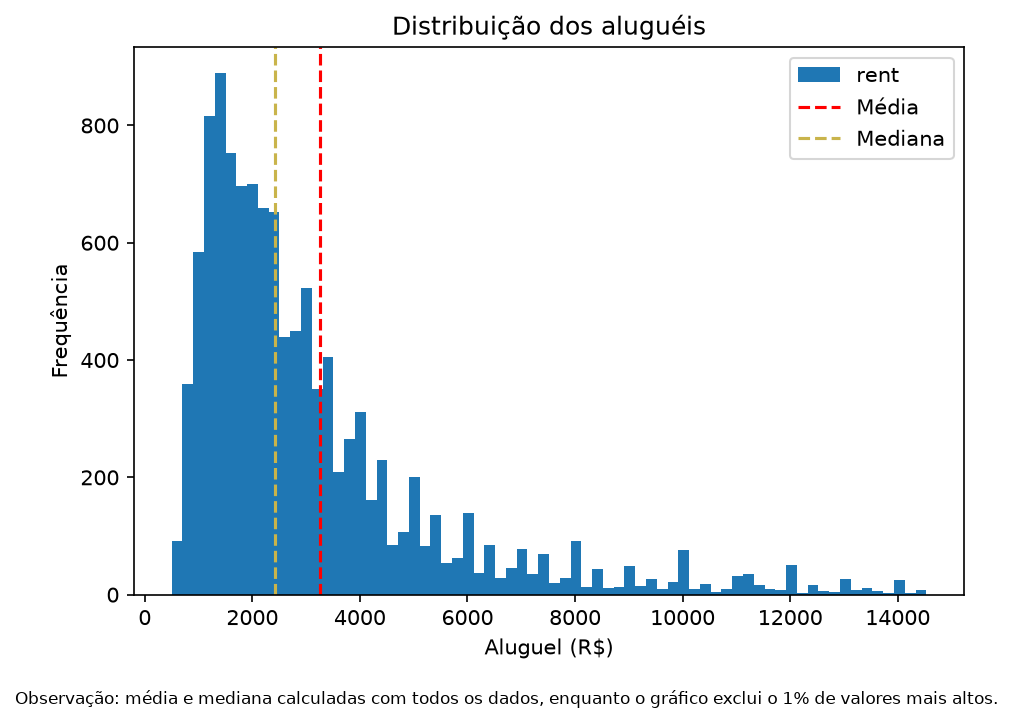
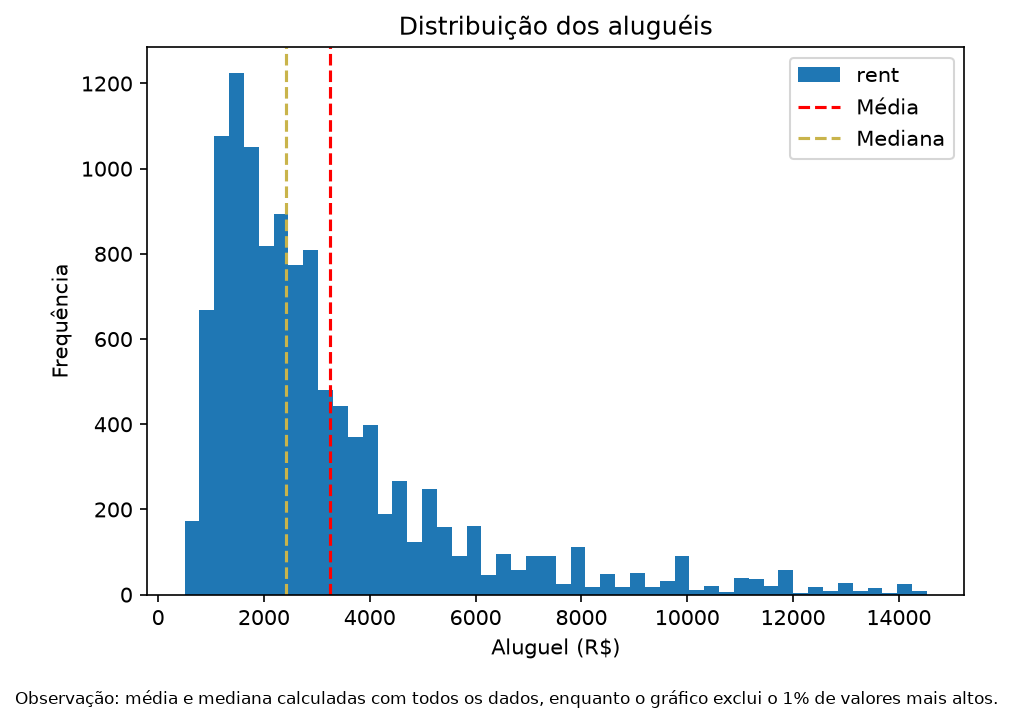
Last commit

diff --git a/main.py b/main.py
@@ -69,14 +69,14 @@ print_section("Top 3 localidades com maior aluguel médio", top_3_highest_rent)
 print_section("Top 3 localidades com menor aluguel médio", top_3_lowest_rent)
 
 # Obter os imóveis com o maior valor de aluguel por metro quadrado de área:
-rent_per_sm_df = (
+df = (
     df.assign(rent_per_sm=lambda d: d['rent'] / d['area'])
       .sort_values(by='rent_per_sm', ascending=False)
       .reset_index()
       .drop(columns=['index', 'total'])
 )
 
-top_10_rent_per_sm = rent_per_sm_df.head(10).rename(columns={
+top_10_rent_per_sm = df.head(10).rename(columns={
     'address': 'Endereço',
     'district': 'Localidade',
     'area': 'Área (m²)',
@@ -101,7 +101,7 @@ if ask_yes_no("Você deseja exibir o histograma: \"Distribuição dos aluguéis\
 plt.close(plot1)
 
 # GRÁFICO 2: Mediana do aluguel por metros quadrados x Número de quartos
-plot2 = plot_rent_per_sm_median_per_bedrooms(rent_per_sm_df)
+plot2 = plot_rent_per_sm_median_per_bedrooms(df)
 plt.savefig('./images/mediana_aluguel_por_m2_por_Nquartos.png', dpi=150, bbox_inches='tight')
 
 if ask_yes_no("Você deseja exibir o gráfico de barras: \"Mediana do aluguel por m² número de quartos\"? (S/n) \n--> "):
@@ -109,7 +109,7 @@ if ask_yes_no("Você deseja exibir o gráfico de barras: \"Mediana do aluguel po
 plt.close(plot2)
 
 # GRÁFICO 3: Mediana do aluguel por metros quadrados x Número de vagas de estacionamento
-plot3 = plot_rent_per_sm_median_per_parking_spots(rent_per_sm_df)
+plot3 = plot_rent_per_sm_median_per_parking_spots(df)
 plt.savefig('./images/mediana_aluguel_por_m2_por_Nvagas.png', dpi=150, bbox_inches='tight')
 
 if ask_yes_no("Você deseja exibir o gráfico de barras: \"Mediana do aluguel por m² pelo número de vagas de estacionamento\"? (S/n) \n--> "):

diff --git a/utils/plots.py b/utils/plots.py
@@ -7,7 +7,7 @@ def plot_rent_histogram(df: DataFrame, media, mediana):
     rent_clipped = rent.filter(cond=rent <= rent.quantile(0.99))
 
     fig, ax = plt.subplots()
-    rent_clipped.plot.hist(bins=70)
+    rent_clipped.plot.hist(bins=50)
 
     ax.set_title('Distribuição dos aluguéis')
     ax.axvline(media, color='red', linestyle='--', label='Média')

diff --git a/README.md b/README.md
@@ -22,7 +22,7 @@ Este repositório foi criado como entrega do desafio inicial proposto na Etapa 2
 
 ## 2. Objetivo e pergunta orientadora
 
-**Contexto:** [2 ou 3 linhas sobre o tema: imóveis disponíveis para aluguel na cidade de São Paulo e a relação entre localização, área, quantidade de cômodos e valor anunciado.]
+**Objetivo:** Realizar uma análise de imóveis disponíveis para aluguel na cidade de São Paulo, relacionando sobretudo o aluguel com outros atributos, como localidade, área e amenidades presentes.
 
 **Pergunta orientadora:** Quais características parecem acompanhar os maiores e os menores preços de aluguel, e o que os dados não permitem concluir?
 
@@ -66,8 +66,8 @@ Este repositório foi criado como entrega do desafio inicial proposto na Etapa 2
 ## 5. Ferramentas e tecnologias
 
 - **Linguagem / ferramenta principal:** Python
-- **Bibliotecas:** `pandas` e suas dependências inclusas, como `numpy` e `matplotlib`.
-- **Ambiente:** Neovim com NvChad + Claude
+- **Bibliotecas:** `pandas` para análise de dados + `matplotlib` para geração de gráficos
+- **Ambiente:** Neovim com NvChad + Claude Sonnet 5.5 (versão gratuita)
 - **Versão do Python:** 3.14.8
 
 ## 6. Estrutura do repositório
@@ -76,9 +76,11 @@ Este repositório foi criado como entrega do desafio inicial proposto na Etapa 2
 .
 ├── README.md           # Este arquivo
 ├── main.py             # Arquivo principal da análise
-├── requirements.txt    # Dependências (quando houver código Python)
-├── images/             # Gráficos usados no README
-└── data/               # Arquivos do dataset
+├── requirements.txt    # Dependências Python
+├── data/               # Arquivos do dataset
+├── docs/               # Arquivos de documentação, usados somente para acompanhamento pessoal
+├── images/             # Gráficos usados no README, gerados em main.py
+└── utils/              # Funções complementares (validações, gráficos, etc.)
 ```
 
 ## 7. Como executar
@@ -105,26 +107,26 @@ python main.py
 |---|---|---|
 | Valores ausentes | Nenhum valor ausente encontrado | Exibir (opcionalmente) ao usuário informações do dataset, mostrando que não há valores ausentes. |
 | Registros repetidos | Nenhum registro repetido encontrado | Uso (opcional) da função `cleanse_data`, permitindo a substituição de valores ausentes + remoção de duplicatas, apenas no caso de uma eventual expansão do dataset. |
-| Valores inconsistentes | 1. Ímóveis de área menor que o mínimo permitido pela prefeitura (8 m²) <br/> 2. Nenhum quarto em imóveis que não são studios ou kitnets | Registros filtrados para fora do DataFrame, visto que podem interferir com a análise realizada dos dados. |
+| Valores inconsistentes | 1. Ímóveis de área menor que o mínimo permitido <br/> 2. Nenhum quarto em imóveis que não são studios ou kitnets | De acordo com a Lei nº 16.642/2017 da cidade de São Paulo, um imóvel deve ter uma área útil total de pelo menos 8 m²; nem todos os registros com menos do que isso devem ter área menor (ex.: área não conseguiu ser inclusa no dataset), mas por fins de acurácia e por não estarem em grande quantidade, os registros foram removidos. <br/> 2. Novamente, esse dado pode não ter sido capturado, porém por serem poucos casos encontrados, esses registros simplesmente foram removidos. |
 | Tipos de dados | Nenhuma inconsistência de dados encontrada. | Sem decisão necessária. |
-| Filtros ou novas variáveis | [Ex.: apenas aluguel; criação de `preco_por_m2`] | [Por quê] |
 
-**Resultado final:** Após passar por tratamentos, apenas valores inconsistentes foram encontrados e removidos. O conjunto foi de 11657 linhas x 8 colunas para 11639 linhas x 8 colunas.
+**Filtros ou novas variáveis incrementadas:**
+| Filtro/variável | Justificativa |
+|---|---|
+| Aluguel por metro quadrado (m²) | Permite obter uma métrica muito oscilante, importante para determinar o quão o imóvel é valorizado no mercado. |
+
+**Resultado final:** Após passar por tratamentos, registros inconsistentes foram encontrados e removidos, e uma coluna adicional (Aluguel por metro quadrado) foi adicionada. O conjunto foi de 11657 linhas x 8 colunas para 11639 linhas x 8 colunas.
 
 ## 9. Resultados
-
-<!-- Em cada subseção: o que foi pedido, o resultado (valor, tabela ou gráfico) e uma leitura curta.
-Todo gráfico precisa de título, eixos identificados e uma explicação breve do que mostra.
-No total, tenha pelo menos 3 gráficos simples e legíveis. -->
 
 ### 9.1 Preço médio e mediano do aluguel
 
 | Medida | Valor (R$) |
 |---|---|
-| Média | [valor] |
-| Mediana | [valor] |
+| Média | 3.250,50 |
+| Mediana | 2.420,00 |
 
-**Por que os valores diferem:** [Explicação simples: a média é influenciada por valores muito altos ou muito baixos; a mediana é o valor central e é menos sensível a eles. Relacione com o que você observou nos dados.]
+**Por que os valores diferem:** A média, por ser uma medida mais sensível a valores muito altos e/ou muito baixos - e também, possivelmente, pelo maior número de _outliers_ (valores discrepantes) de altíssimo aluguel -, ficou maior do que a mediana, que é um valor central, menos influenciado por eles.
 
 ### 9.2 Localidades com maiores e menores preços médios
 
@@ -139,28 +141,25 @@ No total, tenha pelo menos 3 gráficos simples e legíveis. -->
 | Menores 2 | Vila Campanela | 1.172,73 | [n] |
 | Menores 3 | Jardim Vergueiro (Sacomã) | 1.220,25 | [n] |
 
-![Preço médio por localidade](images/grafico_localidades.png)
+### 9.3 Distribuição dos aluguéis (frequência)
 
-**O que o gráfico mostra:** [1 ou 2 frases.]
+![Histograma contendo a distribuição dos aluguéis](images/distribuicao_alugueis.png)
 
-### 9.3 Aluguel x [característica 1 - ex.: área]
+**Descrição:** O gráfico mostra a frequência de 50 intervalos de valor de aluguel (de R$ 0 a R$ 14.000, aproximadamente) e sua frequência na base de dados.
 
-![Aluguel x área](images/grafico_area.png)
+**Observação:** Os _outliers_ (nesse caso, 1% dos valores mais altos) foram removidos, a fim de evitar que o gráfico ficasse muito espremido à esquerda.
 
-**O que o gráfico mostra:** [1 ou 2 frases.]
+### 9.4 Mediana do aluguel por metro quadrado (R$) x número de quartos
 
-**Observação:** [Relação aparente (positiva, fraca, sem padrão)? Se calculou correlação, informe o valor e lembre que ela não prova causa.]
+![Aluguel x quartos](images/mediana_aluguel_por_m2_por_Nquartos.png)
 
-### 9.4 Aluguel x [característica 2 - ex.: quantidade de quartos]
+**Exemplo:** no conjunto dos registros com 2 quartos, a mediana do valor do aluguel por m² fica entre R$ 30,00 e 40,00.
 
-![Aluguel x quartos](images/grafico_quartos.png)
+### 9.4 Mediana do aluguel por metro quadrado (R$) x número de vagas de estacionamento
 
-**O que o gráfico mostra:** [1 ou 2 frases.]
+![Aluguel x quartos](images/mediana_aluguel_por_m2_por_Nvagas.png)
 
-**Observação:** [...]
-
-### 9.5 Comparações adicionais (opcional)
-<!-- Banheiros, vagas, preço por m², etc. Apague esta subseção se não usar. -->
+**Exemplo:** no conjunto dos registros que não tem nenhuma vaga de estacionamento, a mediana do valor do aluguel por m² fica um pouco acima de R$ 35,00.
 
 ## 10. Conclusões
 
@@ -180,58 +179,25 @@ No total, tenha pelo menos 3 gráficos simples e legíveis. -->
 
 ## 11. Limitações da análise
 
-- **Ausência de informações:** [Ex.: faltam dados sobre idade do imóvel, padrão de acabamento, condomínio, proximidade de transporte.]
-- **Concentração dos anúncios:** [Ex.: parte dos bairros tem muitos anúncios e outros muito poucos; a faixa de preço predominante pode distorcer as médias.]
-- **Preço anunciado x preço negociado:** os valores são os anunciados e podem diferir do valor efetivamente fechado.
-- [Outras limitações encontradas, ex.: outliers, período dos dados, qualidade do preenchimento.]
+- **Ausência de informações:** Senti a falta de um dado que seria bastante interessante para análise: a quantidade de banheiros no imóvel. Ademais, uma explicação melhor sobre a coluna de valor total do imóvel poderia ser dada.
+- **Concentração dos anúncios:** Mais de 3/4 das localidades não possui nem 10 imóveis anunciados, o que dificultaria uma análise precisa agrupando os registros por bairro.
 
-**Possíveis trabalhos futuros:** [O que poderia ser feito com mais tempo ou dados.]
+## 12. Sobre o uso de inteligência artificial (IA)
 
-## 12. Declaração sobre o uso de inteligência artificial generativa
+Utilizei o agente Claude Sonnet 5.5 para finalidades como:
+- Estruturação inicial dessa documentação (README.md);
+- Auxiliar no processo de extração dos dados necessários com `pandas`;
+- Auxiliar na ideação dos tipos de gráficos a serem apresentados, com base nos dados obtidos;
 
-<!-- Escolha UMA das opções e apague a outra. Seja honesto e específico. -->
-
-**Opção A - Houve uso:**
-Utilizei [nome da ferramenta] para [finalidade: ex.: tirar dúvidas de sintaxe do pandas, revisar a redação do README, estruturar este modelo de documento]. As respostas foram verificadas da seguinte forma: [ex.: executei e testei todo o código, conferi os números calculados diretamente nos dados, comparei com a documentação oficial das bibliotecas]. As decisões de limpeza, a interpretação dos resultados e as conclusões são de minha autoria.
-
-**Opção B - Não houve uso:**
-Declaro que não utilizei inteligência artificial generativa na elaboração deste projeto.
+Todas respostas foram verificadas, analisando em primeiro lugar as páginas de documentação para os recuros utilizados, testando o código e, quando cabível, comparando com registros reais no arquivo CSV. As decisões de limpeza, a interpretação dos resultados e as conclusões são de minha autoria.
 
 ## 13. Referências
 
 - [Sao Paulo Housing Prices - Kaggle](https://www.kaggle.com/datasets/...)
-- [Documentação das bibliotecas utilizadas]
-- [Outros materiais consultados]
+- [Pandas: API Reference](https://pandas.pydata.org/docs/reference/api)
+- [Matplotlib: API Reference](https://matplotlib.org/stable/api/)
 
 ---
-Desenvolvido por **[Seu nome completo]** - [Sua matrícula] - [Ano]
 
-<!--
-CHECKLIST ANTES DE ENVIAR (apague esta seção depois)
+Desenvolvido por **Luiz Carlos dos Santos Júnior** - 01805589 - 2026
 
-Tarefas do edital:
-[X] Colunas descritas com minhas próprias palavras
-[X] Nº de linhas e colunas informado
-[ ] Ausentes, repetidos e inconsistentes verificados (ou registrado que não houve alteração)
-[ ] Decisões de preparação explicadas
-[ ] Média e mediana calculadas + explicação da diferença
-[ ] Maiores e menores preços médios por localidade, com mínimo de registros justificado
-[ ] Aluguel comparado com pelo menos 2 características
-[ ] Pelo menos 3 gráficos, com título, eixos e explicação
-[ ] Pelo menos 5 conclusões objetivas
-[ ] Limitações registradas
-[ ] Pergunta orientadora respondida (incluindo o que os dados não permitem concluir)
-
-Repositório:
-[X] Arquivo principal da análise (notebook, .py, planilha ou .pbix)
-[ ] README.md sem nenhum [colchete] restante
-[X] requirements.txt (se usou Python)
-[ ] Pasta images/ com os gráficos referenciados
-[ ] Dataset NÃO republicado se a licença não permitir (link + instruções)
-[ ] Declaração de IA preenchida (uma opção só)
-[ ] Repositório público e link testado
-
-E-mail:
-[X] Assunto: Desafio SYNAPTA - [nome completo]
-[ ] Corpo: nome completo, matrícula, período atual, projeto escolhido e link do GitHub
--->

diff --git a/docs/CONTEXT.md b/docs/CONTEXT.md
@@ -19,9 +19,9 @@ registrar essa conclusão.
 valores podem ser diferentes.
 - [X] Identificar as localidades com maiores e menores preços médios, utilizando apenas grupos com
 quantidade razoável de registros.
-- [ ] Comparar o valor do aluguel com pelo menos duas características disponíveis, como área,
+- [~] Comparar o valor do aluguel com pelo menos duas características disponíveis, como área,
 quantidade de quartos, banheiros ou vagas.
-- [ ] Criar pelo menos três gráficos simples e legíveis, com título, identificação dos eixos e breve
+- [X] Criar pelo menos três gráficos simples e legíveis, com título, identificação dos eixos e breve
 explicação do que cada gráfico mostra.
 - [ ] Apresentar pelo menos cinco conclusões objetivas apoiadas nos resultados encontrados.
 - [ ] Registrar limitações da análise, como ausência de informações, concentração dos anúncios ou
